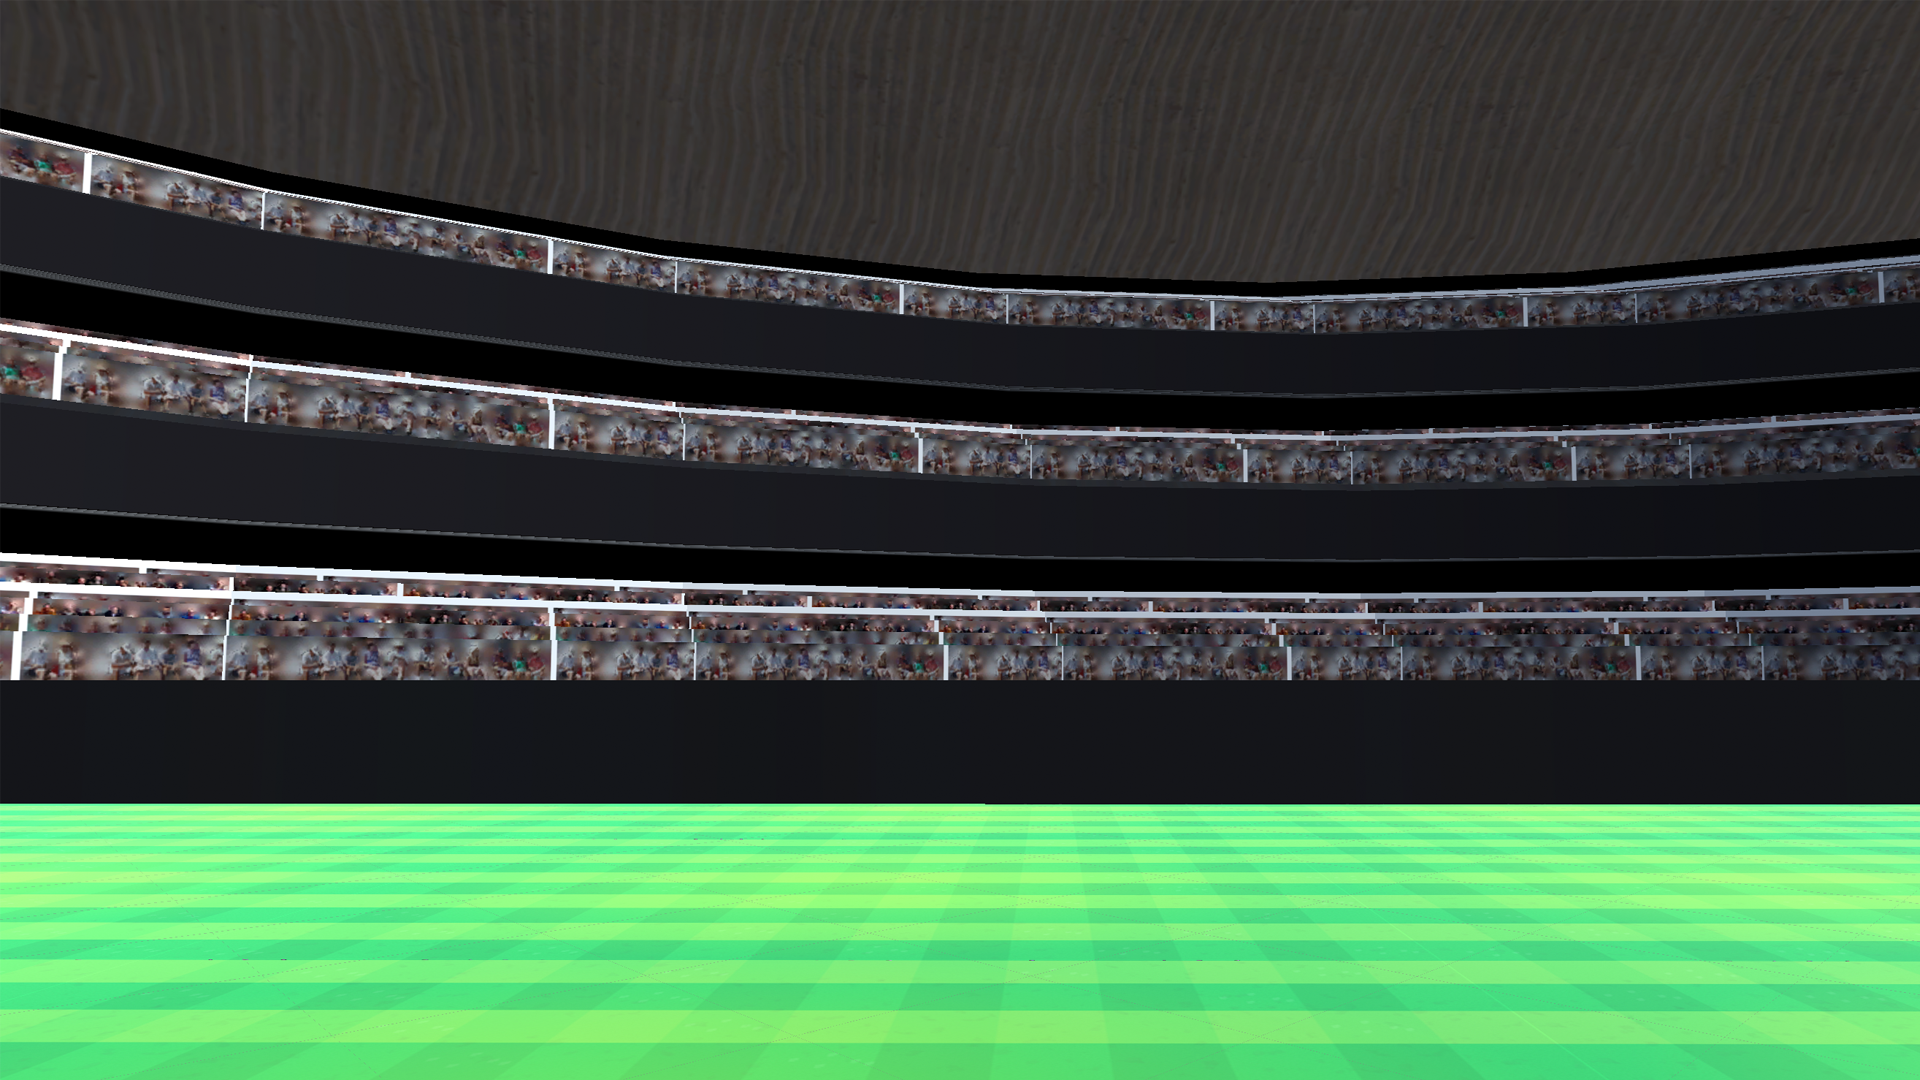
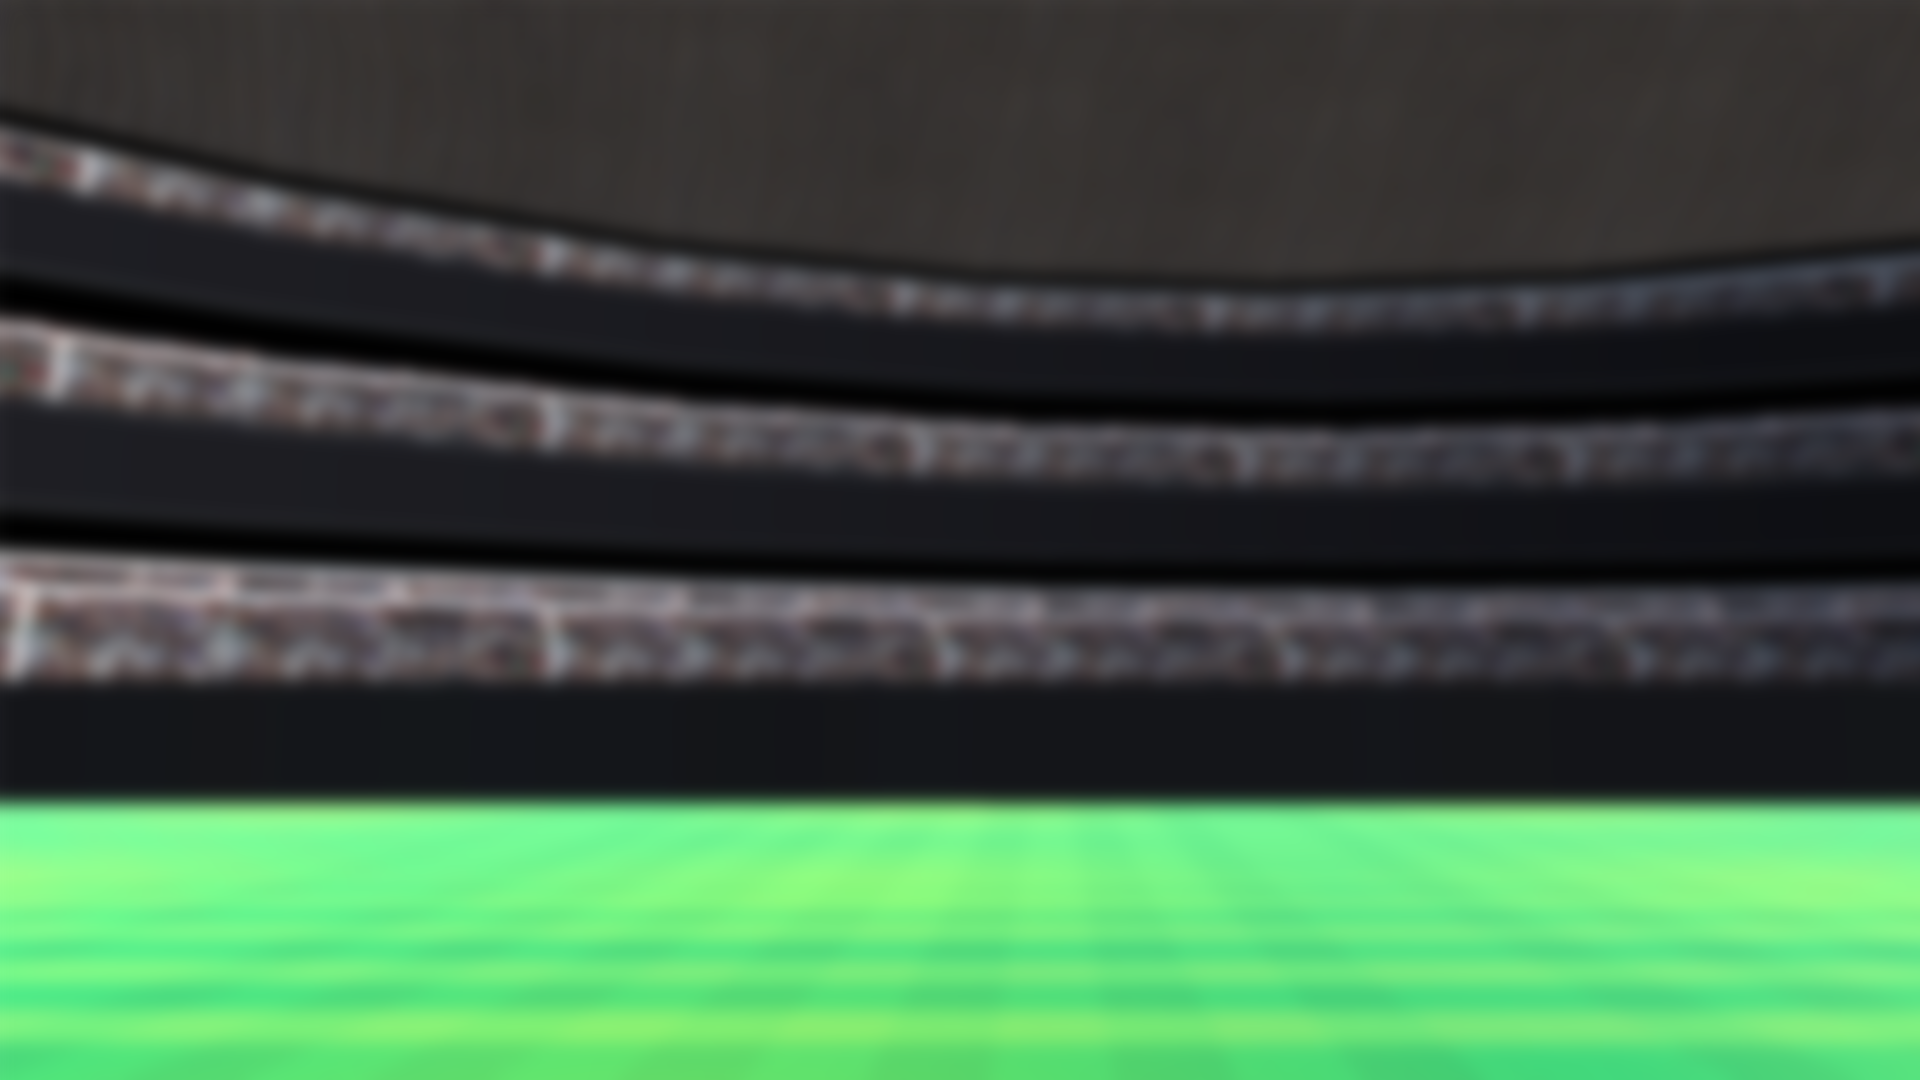
Blur background and emphasize First Jam on index page

diff --git a/index.html b/index.html
@@ -32,10 +32,11 @@ layout: home_landing
         <div class="row">
             <div class="col-md-12">
                 <center>
-                    <img src="/img/indexGuzman.png" style="max-width:500px;width:100%" /><br/>
+                    <img src="/img/indexFirstJam.png" style="max-width:500px;width:100%" /><br/>
+                    <p>Created for My First Game Jam: Summer 2019</p>
                     <iframe frameborder="0" src="https://itch.io/embed/449476?bg_color=222222&amp;fg_color=eeeeee&amp;border_color=363636"
                             width="100%" height="167" style="max-width:800px"></iframe><br />
-                    <p>Created for My First Game Jam: Summer 2019</p>
+
                 </center>
             </div>
         </div>
